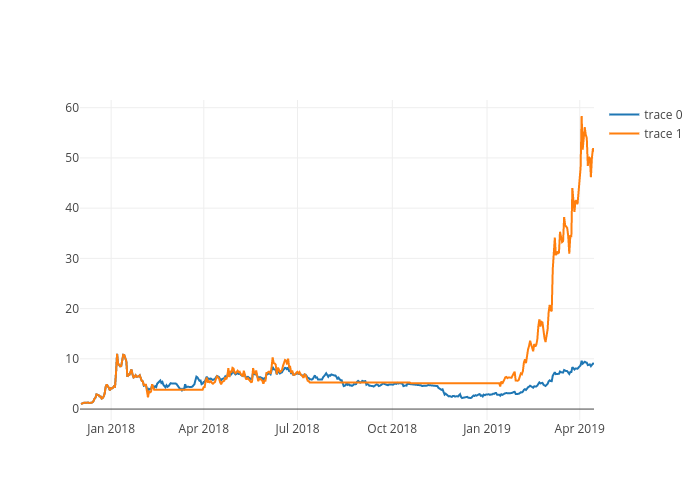
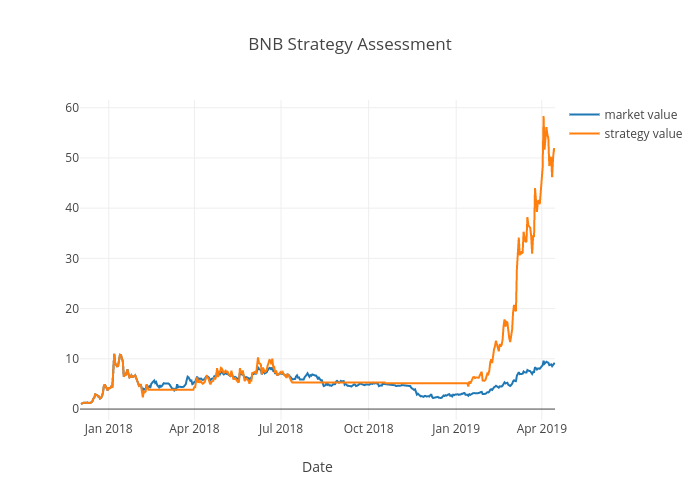
readme changes

diff --git a/backtest_simple.py b/backtest_simple.py
@@ -140,7 +140,7 @@ plotly.tools.set_credentials_file(username=info()[0], api_key=info()[1])
 import plotly.plotly as py
 import plotly.graph_objs as go
 
-#'PLOT # 1: Stock Price, Moving Averages and Buy-Sell Regimes'
+'PLOT # 1: Stock Price, Moving Averages and Buy-Sell Regimes'
 
 if crypto == False:
 
@@ -156,26 +156,37 @@ if crypto == True:
                     open=hist_data['o'],
                     high=hist_data['h'],
                     low=hist_data['l'],
-                    close=hist_data['close'])
+                    close=hist_data['close'],
+                    name = 'candlesticks')
 
 trace2 = go.Scatter(x=hist_data.index,
-                    y=hist_data[str(roll_mean1)+'d'])
+                    y=hist_data[str(roll_mean1)+'d'],
+                    name = 'moving average trend')
 
 trace3 = go.Scatter(x=hist_data.index,
-                    y=hist_data[str(roll_mean2)+'d'])
+                    y=hist_data[str(roll_mean2)+'d'],
+                    name = 'moving average baseline')
 
 trace4 = go.Scatter(x=hist_data.index,
-                    y=hist_data['regplot'])
+                    y=hist_data['regplot'],
+                    name = 'buy-hodl-sell regimes')
 
 data = [trace,trace2,trace3,trace4]
-py.iplot(data, filename=ticker_name+' Stock Price')
+
+layout=go.Layout(title=ticker_name+' Equity', xaxis={'title':'Date'}, yaxis={'title':''})
+fig = go.Figure(data=data, layout=layout)
+py.iplot(fig, filename=ticker_name+' Equity')
 
 
 'PLOT # 2: Backtesting Strategy Assessment'
 trce1 = go.Scatter(x=hist_data.index,
-                   y=hist_data['market'])
+                   y=hist_data['market'],
+                   name ='market value')
 trce2 = go.Scatter(x=hist_data.index,
-                   y=hist_data['strategy'])
+                   y=hist_data['strategy'],
+                   name ='strategy value')
 
 data= [trce1,trce2]
-py.iplot(data, filename=ticker_name+' Strategy Assessment')
+layout=go.Layout(title=ticker_name+' Strategy Assessment', xaxis={'title':'Date'}, yaxis={'title':''})
+fig = go.Figure(data=data, layout=layout)
+py.iplot(fig, filename=ticker_name+' Strategy Assessment')

diff --git a/README.md b/README.md
@@ -19,13 +19,13 @@ limitations under the License.
 
 Published code _**backtest_simple.py**_ is an **ADAPTED** script from the codes from _**Python for Finance (Yves Hilpisch, 2014)**_ which show simple technical analysis algorithms for stocks. Now integrated with cryptocurrencies-importing capabilities from Binance (_**binancereader.py**_)
 
-<img src="Figure_1.png" alt="drawing" width="350"/> <a href="https://plot.ly/~andrewrgarcia/10.embed">
+<img src="Figure_1.png" alt="drawing" width="350"/> <a href="https://plot.ly/~andrewrgarcia/18.embed">
 
-**Fig 1 -  BNB Price Data**
+**Fig 1**
 
 <img src="Figure_2.png" alt="drawing" width="350"/><a href="https://plot.ly/~andrewrgarcia/12.embed">
 
-**Fig 2 - BNB Strategy Assessment**
+**Fig 2**
 
 ## blackswanclimb.py
 
